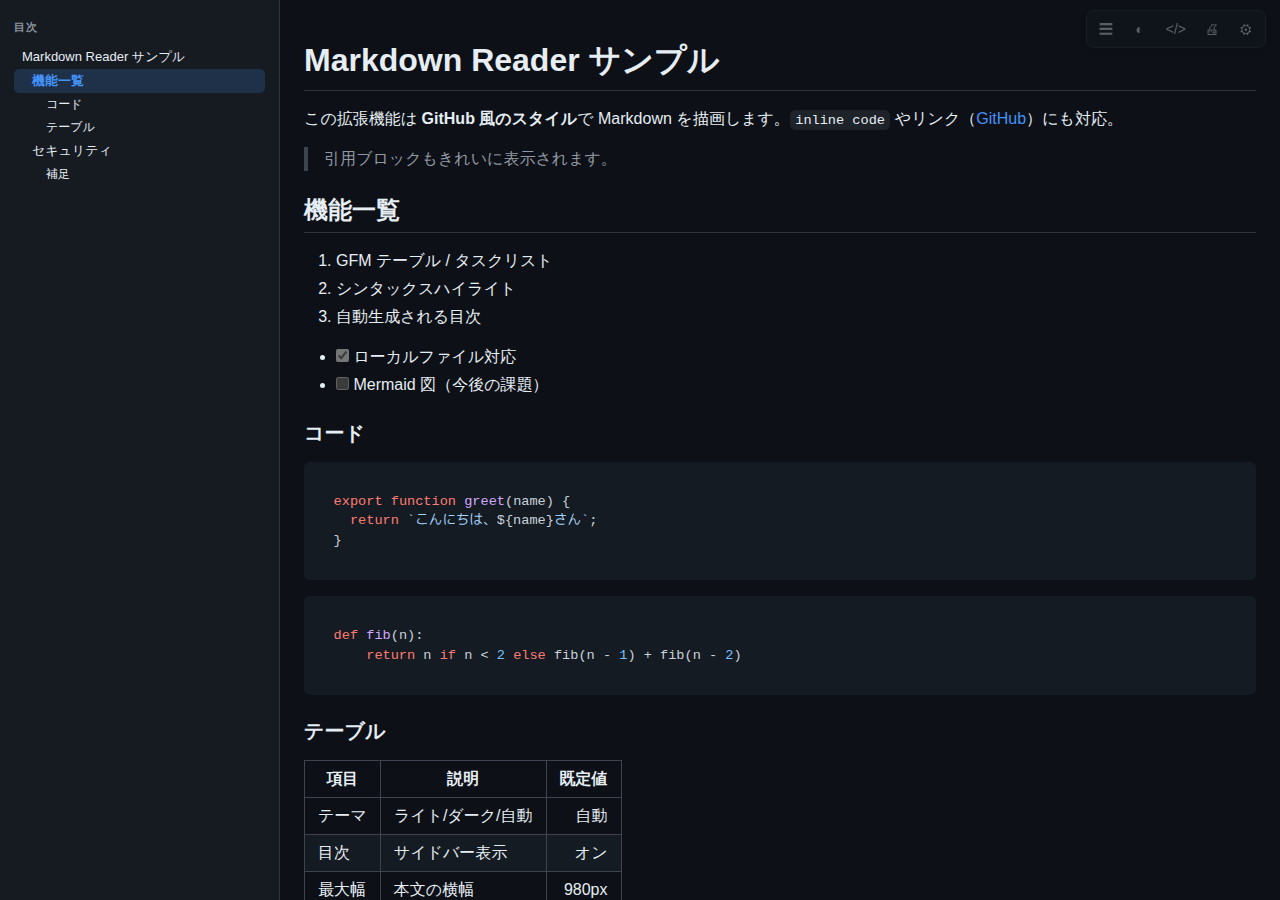
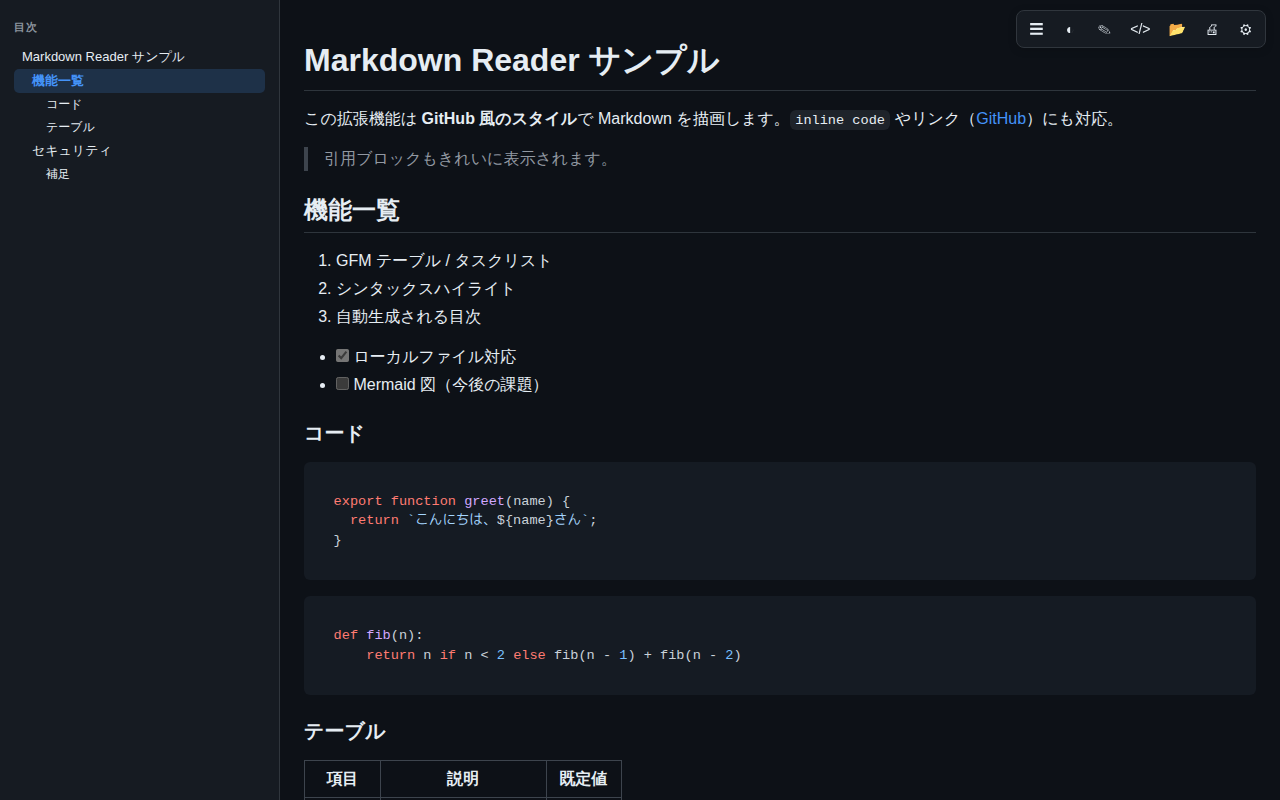
README を最新版に全面改訂し、スクリーンショットを再撮影
- エディタ (専用エディタ・プレビューのオン/オフ・色分け表示) を含む構成で README を書き直し
- ビューアー (ライト/ダーク)、エディタ (2カラム/プレビュー非表示)、ポップアップの画像を更新・追加
- 画像を再生成する npm run screenshots (tools/screenshots.mjs) を追加

diff --git a/README.md b/README.md
@@ -1,21 +1,38 @@
 # Markdown Reader (Edge / Chrome 拡張機能)
 
-ブラウザで開いた Markdown ファイル (`.md` など) を GitHub 風のスタイルで描画する Manifest V3 拡張機能です。
-既存の「Markdown Viewer」が社内ポリシーで導入できない場合の自前代替として、ソースをすべて手元で管理・ビルドできます。
+ブラウザで開いた Markdown ファイル (`.md` など) を GitHub 風のスタイルで描画し、そのまま**編集**もできる Manifest V3 拡張機能です。
+外部通信を一切行わない完全オフライン設計で、ソースをすべて手元で管理・ビルドできます。既存の「Markdown Viewer」が社内ポリシーで導入できない場合の自前代替としても使えます。
 
-![スクリーンショット](docs/screenshot-light.png)
+![ビューアー（ライトテーマ）](docs/screenshot-light.png)
+
+| エディタ（2カラム + プレビュー） | エディタ（プレビュー非表示・ダーク） |
+| --- | --- |
+| ![エディタとプレビュー](docs/screenshot-editor.png) | ![プレビュー非表示のエディタ](docs/screenshot-editor-dark.png) |
 
 ## 特長
+
+### ビューアー
+
+- **GitHub Flavored Markdown** — テーブル、タスクリスト、取り消し線、自動リンクなどに対応。
+- **シンタックスハイライト** — highlight.js（主要言語セット）を同梱。
+- **目次サイドバー** — 見出しから自動生成し、スクロール位置に追従。
+- **ライト / ダークテーマ** — OS 設定に自動追従。コードの配色テーマも選択可能。
+- **便利機能** — 見出しアンカー、コードのコピーボタン、元 Markdown 表示、印刷用スタイル、スクロール位置の記憶。
+
+### エディタ
+
+- **その場で編集** — 表示中の Markdown を `Ctrl+E` で編集モードに切り替え。
+- **専用エディタページ** — ファイルを開かずに新規作成・編集できる独立したページ。
+- **プレビューのオン / オフ** — 編集中のプレビューを `Alt+P` で表示 / 非表示。プレビューはエディタのスクロールに追従。
+- **見やすい色分け表示** — Markdown 記法を色分けし、コードブロック内は言語に応じて**関数名・引数・キーワード・文字列・コメント**などを色分け。
+- **入力補助** — 書式ボタン、ショートカット、リストの自動継続、ステータスバー（行・列・文字数・保存状態）。
+- **ファイル保存とオートセーブ** — ローカルファイルを開いて上書き保存。入力内容は自動で退避され、閉じても失われません。
+
+### 安全性
 
 - **完全オフライン動作** — 外部 CDN・外部 API へのアクセスは一切なし。描画に必要なライブラリはすべて同梱。
 - **最小権限** — `storage` と `activeTab` のみ。全サイトへのアクセス権限は要求しません。
 - **安全な描画** — [DOMPurify](https://github.com/cure53/DOMPurify) で HTML を無害化してから表示（`<script>` や `onerror` は除去）。
-- **GitHub Flavored Markdown** — テーブル、タスクリスト、取り消し線、脚注付きのリスト等に対応。
-- **シンタックスハイライト** — highlight.js（共通言語セット）を同梱。
-- **目次サイドバー** — 見出しから自動生成し、スクロールに追従。
-- **Markdown エディタ** — 表示中のファイルをその場で編集できるほか、専用エディタページで新規作成も可能。プレビューのオン / オフ切替、Markdown とコードブロック（関数名・引数・キーワード等）のシンタックスハイライト付き。
-- **ライト / ダークテーマ** — OS 設定に自動追従。コードテーマも選択可能。
-- **その他** — 見出しアンカー、コードのコピーボタン、元 Markdown 表示トグル、印刷用スタイル、スクロール位置の記憶。
 
 対応拡張子: `.md` `.markdown` `.mdown` `.mkd` `.mkdn` `.mdx` `.rmd`
 
@@ -37,88 +54,147 @@
 > - 起動のたびに「開発者モードの拡張機能を無効にする」旨の警告が出る場合があります。社内ポリシーに従ってください。
 > - Chrome でも同じ手順 (`chrome://extensions`) で動作します。
 
-### ソースからビルドする場合
-
-```bash
-npm ci        # 依存関係の取得
-npm run build # dist/ を生成（初回は npm run icons も実行）
-```
-
-配布用の zip は `npm run package` で `markdown-reader.zip` が生成されます
-（Microsoft Partner Center / Chrome Web Store へのアップロードにも使えます）。
-
 ## 使い方
 
-### 基本
+### Markdown を表示する
 
 - `.md` などの Markdown ファイルを Edge で開くだけで自動的に描画されます（`file://` と http(s) の両方）。
   - ローカルファイル: エクスプローラーからファイルを Edge にドラッグ＆ドロップするか、アドレスバーに `file:///C:/path/to/file.md` を入力します。
   - Web 上: `https://example.com/doc.md` のような URL（生の Markdown テキストが返るもの）。
 - HTML として表示されるページ（GitHub 上の `README.md` ページなど）は書き換えません。
 
-### ツールバー（ページ右上）
+![ビューアー（ダークテーマ）](docs/screenshot-dark.png)
 
-| ボタン | 機能 |
-| --- | --- |
-| `☰` | 目次サイドバーの表示 / 非表示 |
-| `◐` | ライト / ダークテーマの切り替え |
-| `✎` / `📖` | エディタを開く / 閉じて閲覧に戻る（`Ctrl+E`） |
-| `</>` | 元の Markdown テキストの表示切り替え |
-| `📂` | ファイルを開く（`Ctrl+O`） |
-| `🖨` | 印刷（印刷用スタイルで出力） |
-| `⚙` | 設定ページを開く |
+### ページ右上のツールバー
+
+| ボタン | 機能 | ショートカット |
+| --- | --- | --- |
+| `☰` | 目次サイドバーの表示 / 非表示 | |
+| `◐` | テーマの切り替え（自動 → ライト → ダーク） | |
+| `✎` / `📖` | エディタを開く / 閉じて閲覧に戻る | `Ctrl+E` |
+| `</>` | 元の Markdown テキストの表示切り替え | |
+| `📂` | ファイルを開く | `Ctrl+O` |
+| `🖨` | 印刷（印刷用スタイルで出力） | |
+| `⚙` | 設定ページを開く | |
 
 編集中は次のボタンが追加されます。
 
-| ボタン | 機能 |
-| --- | --- |
-| `💾` | 保存（`Ctrl+S`） |
-| `👁` | 編集中のプレビューの表示 / 非表示（`Alt+P`） |
+| ボタン | 機能 | ショートカット |
+| --- | --- | --- |
+| `💾` | 保存（初回は保存先を選択、以降は上書き） | `Ctrl+S` |
+| `👁` | 編集中のプレビューの表示 / 非表示 | `Alt+P` |
+| `🆕` | 新規作成（専用エディタページのみ） | |
 
 - 見出しにマウスを乗せるとアンカーリンクが表示されます。
 - コードブロックにはコピーボタンが表示されます。
-- スクロール位置は記憶されます。
-- Edge のツールバーにある拡張機能アイコンをクリックすると、ポップアップから同じ操作ができます。
+- ツールバーは普段は半透明で、マウスを乗せるとはっきり表示されます。
 
-### エディタ
+### ポップアップ
 
-- **その場で編集**: 表示中の Markdown で `✎`（`Ctrl+E`）を押すとエディタが開きます。
-- **専用エディタ**: ツールバーの拡張機能アイコン →「Markdown エディタを開く」で、ファイルを開かずに新規作成・編集できる専用ページが開きます。`🆕` で新規作成、`📂` / ファイルのドラッグ＆ドロップで開く、`💾` で保存。入力内容は自動で退避され、次回開いたときに復元されます。
-- **プレビューのオン / オフ**: `👁` または `Alt+P` で編集中のプレビューを表示 / 非表示にできます。非表示にするとエディタが全幅になり、描画処理も止まるため大きなファイルでも軽快です。2カラム表示ではエディタのスクロールにプレビューが追従します。
-- **シンタックスハイライト**: 見出し・強調・リンク / URL・リスト / タスク・引用・表・HTML などを色分けします。` ```js ` のようなコードブロック内は言語に応じて関数名・引数・キーワード・文字列・コメント等が色分けされます（配色はコードのテーマ設定に従います）。
-- **入力補助**: 書式ボタン、`Ctrl+B` / `Ctrl+I` / `Ctrl+K`、リストの自動継続、`Tab` でのインデント。
-- **ステータスバー**: カーソル位置（行・列）、文字数、保存状態を表示。未保存時はタブのタイトルに `●` が付きます。
+<img src="docs/screenshot-popup.png" alt="ポップアップ" width="280" align="right">
 
-### 設定
+Edge のツールバーにある拡張機能アイコンをクリックすると、次の操作ができます。
 
-設定ページ（`⚙` または `edge://extensions` →「拡張機能のオプション」）で次を変更できます。
+- **Markdown エディタを開く**（専用エディタページを新しいタブで開く）
+- このページを Markdown として表示（自動描画しない設定のときなど）
+- 目次の表示 / 非表示、テーマ切替、元の Markdown の表示
+- 設定を開く
 
-- テーマ、コードのハイライトテーマ
-- 本文幅、文字サイズ
-- 各機能（目次、コピーボタン等）のオン / オフ
-- エディタのレイアウト（2カラム / トグル式）、編集中のプレビュー表示、シンタックスハイライト、オートセーブ
-- 自動描画の除外オリジン
+<br clear="right">
 
-### うまく表示されないとき
+## エディタ
 
-- ローカルファイルが描画されない → 「ファイルの URL へのアクセスを許可する」がオンか確認
-- 拡張機能を更新した後に変わらない → `edge://extensions` で更新後、ページを再読み込み
-- 特定サイトで描画したくない → 設定の除外オリジンに追加
+### 2 つの使い方
+
+- **表示中のファイルを編集**: Markdown を表示した状態で `✎`（`Ctrl+E`）を押すと、エディタとプレビューが並んで表示されます。
+- **専用エディタページ**: ポップアップの「Markdown エディタを開く」から起動します。ファイルを開かなくても書き始められ、`🆕` で新規作成、`📂`（`Ctrl+O`）やファイルのドラッグ＆ドロップで既存ファイルを開けます。前回の入力内容は次に開いたとき自動で復元されます。
+
+### プレビューのオン / オフ
+
+- `👁` ボタンまたは `Alt+P` で、編集中のプレビューを表示 / 非表示にできます。
+- 非表示にするとエディタが全幅になり、執筆に集中できます。描画処理も止まるため大きなファイルでも軽快です（再表示時に最新の内容で描画）。
+- 2 カラム表示では、エディタをスクロールするとプレビューも同じ位置まで追従します。
+- 設定で「トグル式」レイアウトを選ぶと、`👁` / `Alt+P` でエディタとプレビューを 1 画面で切り替えます。
+
+### 見やすさの工夫（シンタックスハイライト）
+
+エディタの文字は種類ごとに色分けされます。配色はライト / ダークテーマに合わせて切り替わります。
+
+| 対象 | 例 | 表示 |
+| --- | --- | --- |
+| 見出し | `## 見出し` | 青色 + 下線（`#` 記号は淡色） |
+| 強調 | `**太字**` / `*斜体*` / `~~取消~~` | 橙 / 紫 / 取り消し線 |
+| コード | `` `code` `` | 背景付き |
+| リンク | `[テキスト](https://...)` | テキストは青、URL は緑の下線 |
+| リスト・タスク | `- ` `1. ` `[ ]` `[x]` | 記号を赤、完了タスクは緑 |
+| 引用・表・HTML | `> ` `\|` `<kbd>` | 緑 / 黄 / ピンク |
+| フロントマター | `---` で囲んだ YAML | 淡色 |
+| **コードブロック** | ` ```js ` ` ```python ` など | **関数名・引数・キーワード・文字列・数値・コメントを言語ごとに色分け**（設定の「コードのテーマ」に従う） |
+
+- 文字の太さや形を変えずに色だけで表現しているため、カーソル位置がずれません。
+- 設定でハイライトをオフにすることもできます。
+
+### 入力補助
+
+| 操作 | 内容 |
+| --- | --- |
+| 書式ボタン | 太字・斜体・取り消し線・見出し・箇条書き・番号付きリスト・タスク・引用・インラインコード・コードブロック・リンク・表 |
+| `Ctrl+B` / `Ctrl+I` / `Ctrl+K` | 太字 / 斜体 / リンク |
+| `Enter` | リスト・番号・タスクを自動で継続（空の項目で `Enter` するとリスト終了） |
+| `Tab` | インデント（スペース 2 つ） |
+
+- 画面下のステータスバーに、カーソル位置（行・列）、選択文字数、総文字数、ファイル名、保存状態を表示します。
+- 未保存の変更があるとタブのタイトルに `●` が付き、ページを閉じる前に確認が表示されます。
+
+### 保存とオートセーブ
+
+- `💾`（`Ctrl+S`）で保存します。初回は保存先を選び、以降は同じファイルに上書きします。
+- オートセーブがオンの場合、入力内容をブラウザ内に自動退避し、開いたファイルにも自動で書き込みます。
+
+## 設定
+
+設定ページ（`⚙`、またはポップアップの「設定を開く」、`edge://extensions` →「拡張機能のオプション」）で次を変更できます。変更は開いているページにすぐ反映されます。
+
+| 分類 | 項目 |
+| --- | --- |
+| 表示 | テーマ、コードのハイライトテーマ（GitHub / a11y / Monokai / Nord）、本文の最大幅、文字サイズ |
+| エディタ | 画面レイアウト（2 カラム分割 / トグル式）、編集中のプレビュー表示、シンタックスハイライト、オートセーブ |
+| 機能 | 目次、見出しアンカー、コピーボタン、スクロール位置の記憶、改行の扱い |
+| 自動描画 | http(s) 上の `.md` を自動描画するか、自動描画しないオリジン |
+
+## うまく動かないとき
+
+| 症状 | 対処 |
+| --- | --- |
+| ローカルファイルが描画されない | 「ファイルの URL へのアクセスを許可する」がオンか確認 |
+| 拡張機能を更新しても変わらない | `edge://extensions` で更新（↻）後、ページを再読み込み |
+| 特定サイトで描画したくない | 設定の「自動描画しないオリジン」に追加 |
+| 保存ダイアログが出ずにダウンロードされる | ブラウザがファイル保存 API に未対応のため。ダウンロードされたファイルを利用してください |
 
 ## 開発
+
+### ソースからビルドする
+
+```bash
+npm ci        # 依存関係の取得
+npm run build # dist/ を生成（初回は npm run icons も実行）
+```
 
 | コマンド | 内容 |
 | --- | --- |
 | `npm run build` | `src/` を `dist/` にバンドルし、CSS とライセンス一覧を更新 |
+| `npm test` | ビルド後、実ブラウザに拡張機能を読み込んで描画・エディタ・XSS 対策などを検証 |
+| `npm run screenshots` | README 用のスクリーンショット (`docs/*.png`) を再生成 |
 | `npm run icons` | `icons/*.png` を生成（外部依存なし） |
-| `npm test` | ビルド後、実ブラウザ上で描画・XSS・テーマ等を検証するスモークテスト |
-| `npm run package` | 配布用 zip を作成 |
+| `npm run package` | 配布用 zip (`markdown-reader.zip`) を作成（Microsoft Partner Center / Chrome Web Store にも利用可） |
+
+> テストとスクリーンショットには Playwright 用の Chromium が必要です（`npx playwright-core install chromium`）。
 
 ### 構成
 
 ```
 manifest.json          拡張機能の定義 (MV3)
-src/content.js         .md を検出して描画するコンテンツスクリプト
+src/content.js         .md を検出して描画を開始するコンテンツスクリプト
 src/viewer.js          ビューアー / エディタ本体（コンテンツスクリプトと専用エディタで共用）
 src/md-highlight.js    エディタ用の Markdown シンタックスハイライター
 src/editor.html/.js    Markdown 専用エディタページ
@@ -126,20 +202,23 @@ src/settings.js        設定のデフォルト値と保存・読み込み
 src/background.js      サービスワーカー（設定ページの起動など）
 src/options.html/.js   設定ページ
 src/popup.html/.js     ツールバーのポップアップ
-css/                   ビューアーのスタイル・GitHub テーマ・コードテーマ
+css/                   ビューアー / エディタのスタイル・GitHub テーマ・コードテーマ
 dist/                  ビルド成果物（拡張機能が読み込む）
 test/smoke.mjs         実ブラウザでのスモークテスト
+tools/                 アイコン・スクリーンショットの生成スクリプト
+docs/                  スクリーンショット・資料
 ```
 
 ### 設計上の注意
 
 - HTML ページを壊さないよう、`document.contentType` がプレーンテキスト系で、かつ body が単一の `<pre>` の場合のみ描画します（GitHub 上の `README.md` ページなどは書き換えません）。
 - 描画結果は必ず DOMPurify を通します。`marked` の出力をそのまま DOM に挿入しないでください。
+- エディタのハイライトは `textarea` の背面に色付きの `<pre>` を重ねる方式です。両者のフォント・余白・折り返し設定を一致させる必要があり、ハイライトでは文字幅が変わる装飾（太字・斜体など）を使いません。
 
 ## セキュリティ / プライバシー
 
 - 通信を行うコードはありません（`fetch` は拡張機能内の CSS 読み込みのみ）。
-- 収集・送信するデータはありません。設定は `chrome.storage` に保存されるだけです。
+- 収集・送信するデータはありません。設定は `chrome.storage`、エディタの下書きはブラウザの `localStorage` に保存されるだけです。
 - 同梱ライブラリとそのライセンスは [THIRD_PARTY_LICENSES.md](THIRD_PARTY_LICENSES.md) を参照してください。
 
 ## ライセンス
